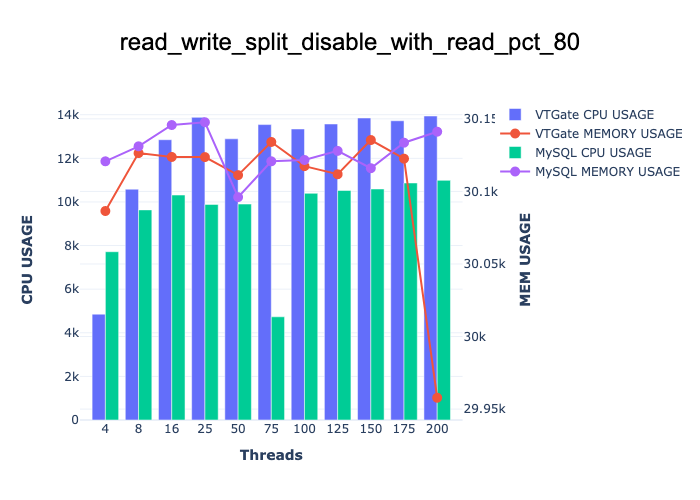
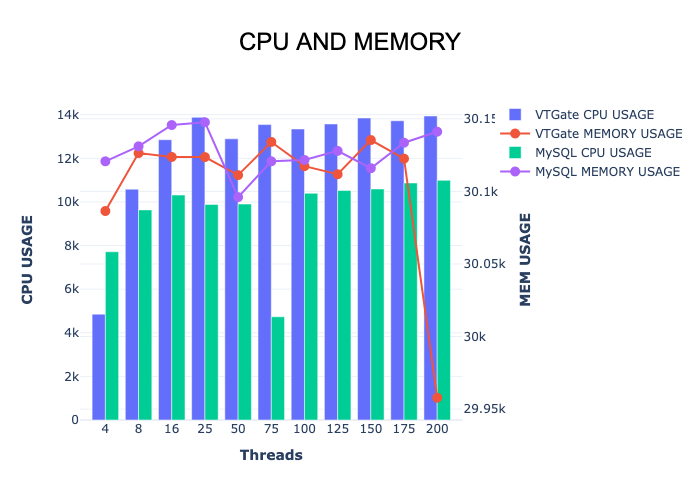
plot

Changed region(s): [[0.18, 0.06, 0.84, 0.12]]

diff --git a/run/tmp.py b/run/tmp.py
@@ -1,3 +1,7 @@
 from plot import draw_cpu_memory_figure
+import sysbench
+import os
 
-draw_cpu_memory_figure.draw_figure_from_aggregation_result("/Users/geray/PycharmProjec/autosysbench/data/2023_08_23/read_after_write_disable_with_monitor_debug_time_20_54_45", "CPU AND MEMORY")
+data_base_path = sysbench.get_data_path()
+data_path = os.path.join(data_base_path, '2023_08_24', 'read_write_split_disable_with_read_pct_80_time_09_50_27')
+draw_cpu_memory_figure.draw_figure_from_aggregation_result(data_path, "CPU AND MEMORY")

diff --git a/run/sysbench.py b/run/sysbench.py
@@ -26,6 +26,8 @@ def get_current_time_for_path():
     formatted_time = current_time.strftime("%H_%M_%S")
     return formatted_time
 
+def get_data_path():
+    return os.path.join(current_path, '..', 'data')
 
 def generate_workload(times=100, read_pct=20, threads=[4, 8]):
     workload = []
